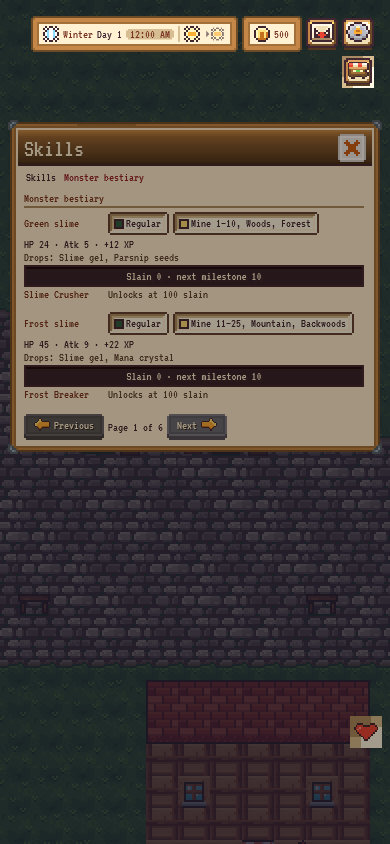
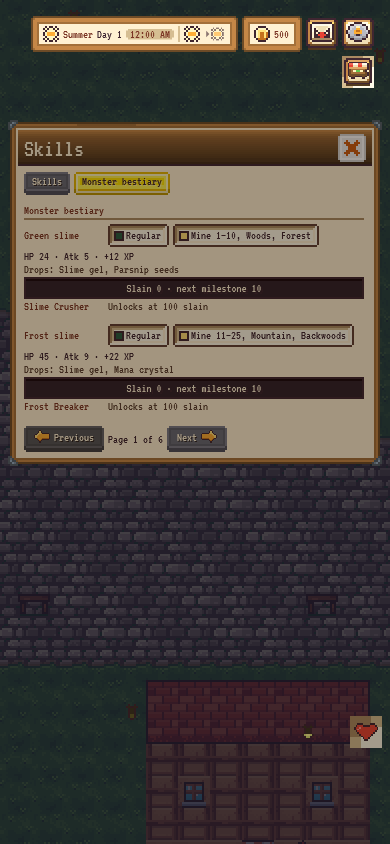
fix(wasm): panels follow their content up to the screen, not a 186 u cap
The dialog's max-height capped every panel at the menu height token, which
clipped the Skills list. The cap is gone: a panel is as tall as its content up
to the screen below the HUD bar (docs/design/ui-standard.md section 3).

Still open: at 1280x720 the Skills hint's second line is cut by the screen
bottom; the panel starts under the HUD bar and has about 12 px less than its
content needs.

Changed region(s): [[0.0, 0.1848, 0.9846, 0.5545], [0.1231, 0.0308, 0.2154, 0.0616]]

diff --git a/wasm/Nosum.Wasm.Controls/Common/TradeDialog.razor.css b/wasm/Nosum.Wasm.Controls/Common/TradeDialog.razor.css
@@ -23,7 +23,8 @@
     width: 100%;
     height: auto;
     min-height: var(--nosum-menu-min-h);
-    max-height: min(var(--nosum-menu-h), calc(100vh - var(--nosum-gutter) * 2 - var(--nosum-hud-top-h)));
+    /* The height follows the content up to the screen below the HUD bar (docs/design/ui-standard.md section 3): no fixed cap. */
+    max-height: calc(100vh - var(--nosum-gutter) * 2 - var(--nosum-hud-top-h));
 }
 
 @media (max-height: 500px) {
